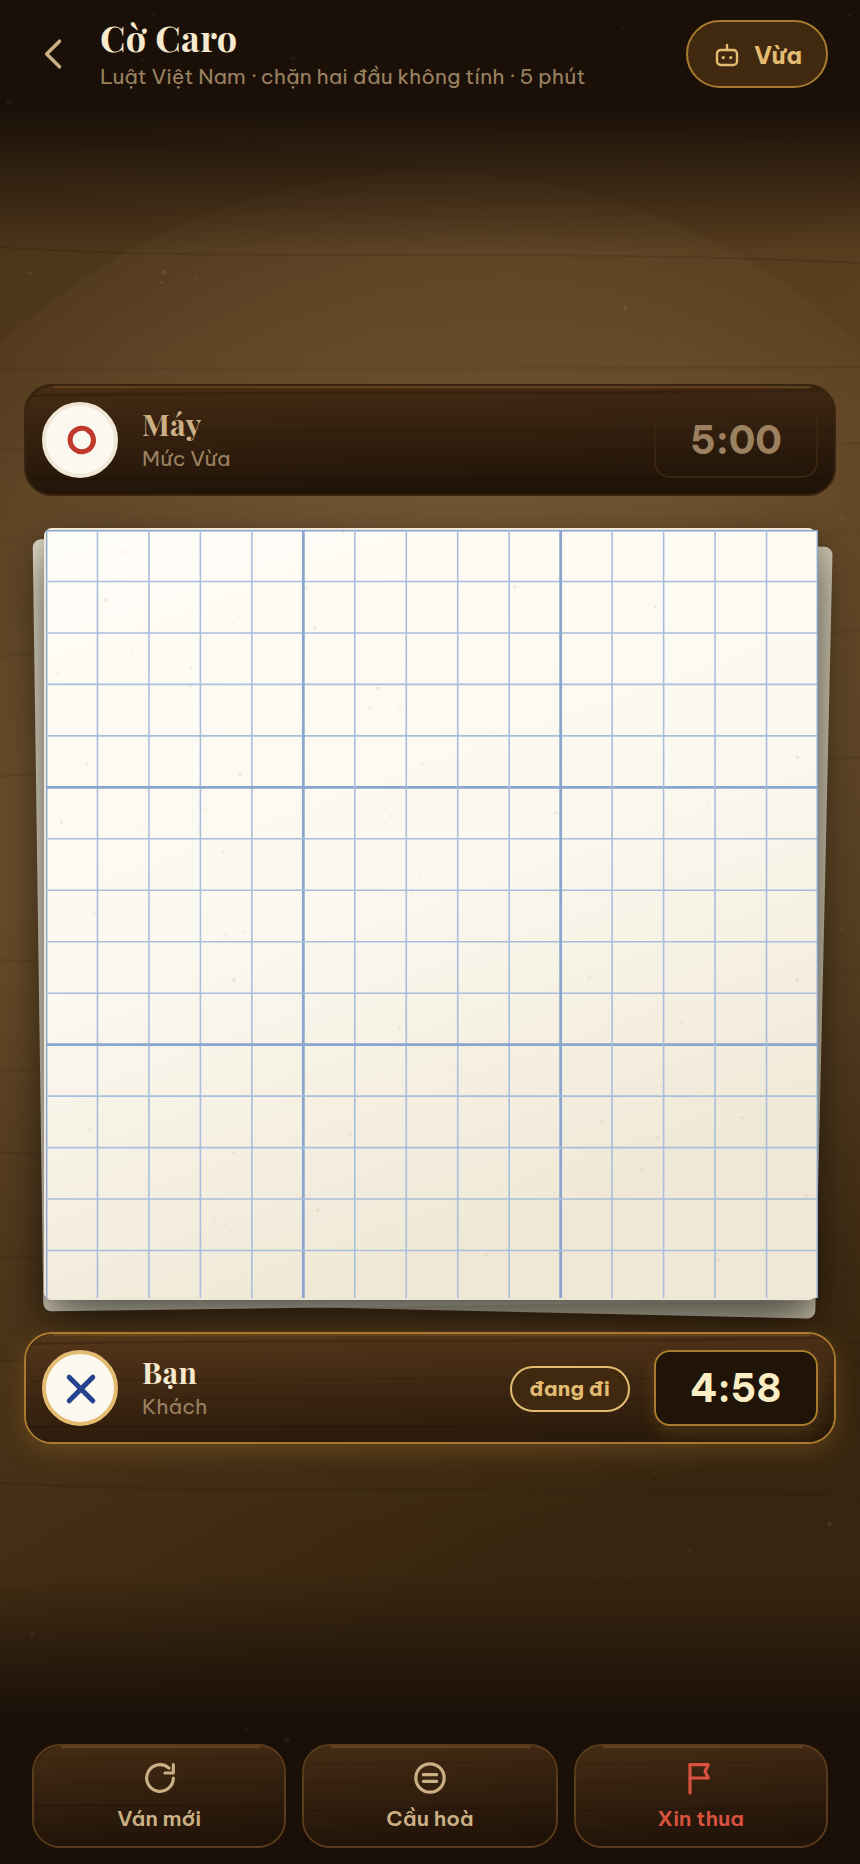
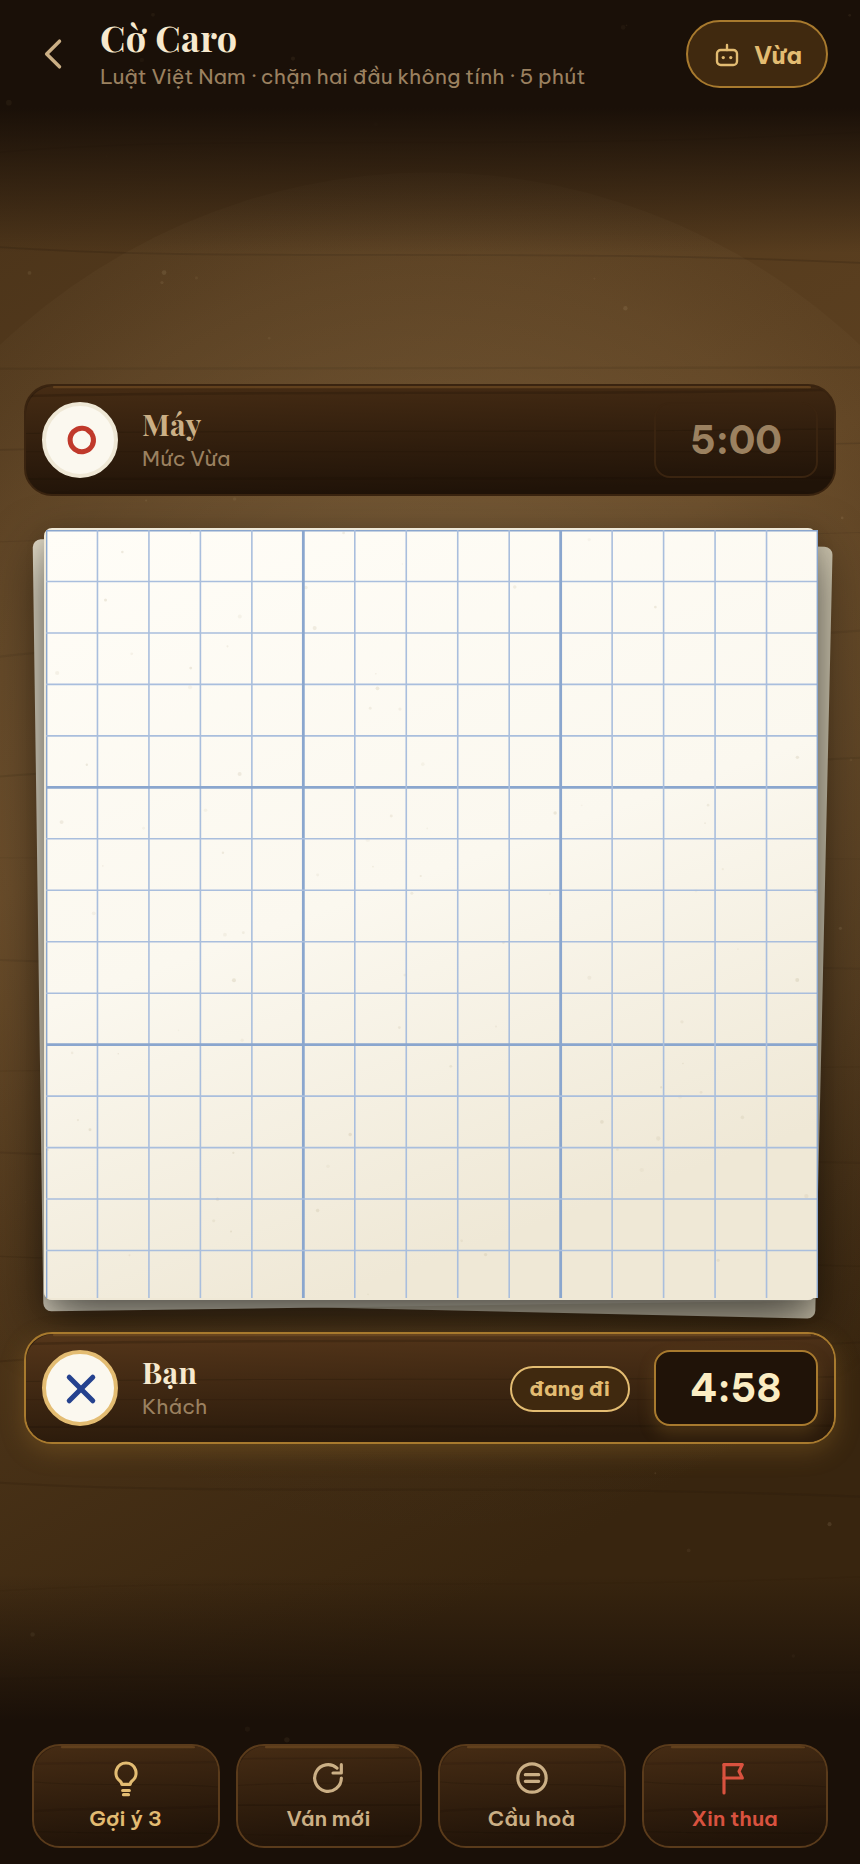
Gợi ý ba lần mỗi ván, dùng chung cho mọi bộ môn
Nút gợi ý hỏi chính con bot mức Khó xem nó sẽ đi nước nào ở chỗ người
chơi, rồi vẽ nước đó lên bàn: caro là ô tô dạ quang viền nét chì đứt, cờ
gánh là vòng nét đứt quanh quân cần nhấc cộng mũi tên tới chỗ cần đến —
chỉ tô ô đích thôi thì người chơi không biết nhấc quân nào.

Gọi đúng tên là 'nước mà máy mức Khó sẽ chọn', không gọi là 'nước tốt
nhất'. Bot không chứng minh được nước nào tốt nhất, nó chỉ tìm sâu vài
tầng; hứa quá lời rồi người chơi thua theo gợi ý thì lần sau họ không tin
cái nút nào nữa.

Ba lần là con số cố tình: đủ gỡ ba chỗ bí, không đủ chơi hộ cả ván. Gợi ý
vô hạn thì người ta bấm cho xong, mà đấu với máy vốn là để học.

Cơ chế nằm trong useVsBot nên game thứ ba trở đi có sẵn, không phải cài
lại. Gợi ý tự tắt ngay khi bàn cờ đổi — mũi tên chỉ vào thế cờ đã qua còn
tệ hơn không có gợi ý.

Thêm test cho cả hai engine: bot phải trả nước hợp lệ khi bị hỏi hộ ghế
người chơi, vì đó chính là đường mà nút gợi ý đi.

Và sửa một lỗi im lặng vừa lộ ra: npm test dùng bản dựng tăng dần nên có
lần bỏ sót file test vừa sửa, chạy bản cũ rồi báo xanh. Giờ biên dịch lại
toàn bộ trước khi chạy.

diff --git a/apps/mobile/src/games/useVsBot.ts b/apps/mobile/src/games/useVsBot.ts
@@ -25,7 +25,22 @@ export interface VsBot<S, A> {
   /** Gửi một hành động của người chơi. */
   send: (seat: Seat, a: A) => void;
   reset: () => void;
+  /** Số gợi ý còn lại trong ván này. */
+  hintsLeft: number;
+  /** Nước đang được gợi ý, hoặc null. Bàn cờ tự vẽ theo cách của nó. */
+  hint: A | null;
+  askHint: () => void;
+  canHint: boolean;
 }
+
+/**
+ * Mỗi ván được ba gợi ý.
+ *
+ * Ba là con số cố tình: đủ để gỡ ba chỗ bí trong một ván, không đủ để chơi
+ * hộ cả ván. Gợi ý nhiều vô hạn thì người chơi bấm cho xong, không học được
+ * gì, mà đánh với máy vốn là để học.
+ */
+export const HINTS_PER_MATCH = 3;
 
 export function useVsBot<S extends BaseState, A>(
   engine: Engine<S, A, unknown, unknown>,
@@ -46,6 +61,8 @@ export function useVsBot<S extends BaseState, A>(
   const [state, setState] = useState<S>(() => fresh('van-1'));
   const [thinking, setThinking] = useState(false);
   const [clock, setClock] = useState<[number, number]>([startMs, startMs]);
+  const [hintsLeft, setHintsLeft] = useState(HINTS_PER_MATCH);
+  const [hint, setHint] = useState<A | null>(null);
   const timer = useRef<ReturnType<typeof setTimeout> | null>(null);
 
   const outcome = engine.outcome(state);
@@ -65,8 +82,29 @@ export function useVsBot<S extends BaseState, A>(
     setSeed(next);
     setThinking(false);
     setClock([startMs, startMs]);
+    setHintsLeft(HINTS_PER_MATCH);
+    setHint(null);
     setState(fresh(next));
   }, [fresh, startMs]);
+
+  /**
+   * Gợi ý = hỏi chính con bot mức Khó xem nó sẽ đi nước nào ở chỗ của bạn.
+   *
+   * Nói đúng như vậy chứ không gọi là "nước tốt nhất": bot không chứng minh
+   * được nước nào tốt nhất, nó chỉ tìm sâu vài tầng. Hứa "tốt nhất" rồi
+   * người chơi thua theo gợi ý thì lần sau họ không tin cái nút nào nữa.
+   */
+  const askHint = useCallback(() => {
+    if (hintsLeft <= 0 || outcome || toMove !== ME) return;
+    setHint(pickBotMove(state, ME, 3, makeRng(`${seed}|hint|${state.ply}`, 0), (o.budgetMs ?? 60) * 4));
+    setHintsLeft((n) => n - 1);
+  }, [hintsLeft, outcome, toMove, state, seed, pickBotMove, o.budgetMs]);
+
+  // Gợi ý biến mất ngay khi bàn cờ đổi: một mũi tên chỉ vào thế cờ đã qua
+  // còn tệ hơn là không có gợi ý nào.
+  useEffect(() => {
+    setHint(null);
+  }, [state.ply]);
 
   // Đồng hồ chạy 100ms một nhịp thay vì 1s: nhịp 1s thì giây cuối cùng có
   // thể trôi qua gần một giây mới hiện, đúng lúc người chơi nhìn chằm chằm.
@@ -101,7 +139,19 @@ export function useVsBot<S extends BaseState, A>(
     };
   }, [state, seed, o.level, o.thinkMs, o.budgetMs, outcome, toMove, engine, pickBotMove]);
 
-  return { state, outcome, toMove, thinking, clock, send, reset };
+  return {
+    state,
+    outcome,
+    toMove,
+    thinking,
+    clock,
+    send,
+    reset,
+    hintsLeft,
+    hint,
+    askHint,
+    canHint: hintsLeft > 0 && !outcome && toMove === ME,
+  };
 }
 
 /** Hết giờ là một action thật gửi vào engine, không phải một dòng chữ vẽ đè. */

diff --git a/apps/mobile/src/games/co-caro/Board.tsx b/apps/mobile/src/games/co-caro/Board.tsx
@@ -35,9 +35,11 @@ export interface CaroBoardProps {
   mySeat: number | null;
   onPlay: (r: number, c: number) => void;
   disabled?: boolean;
+  /** Ô đang được gợi ý, vẽ bằng nét chì mờ như người ta ướm thử. */
+  hint?: { r: number; c: number } | null;
 }
 
-export function CaroBoard({ view, size, mySeat, onPlay, disabled }: CaroBoardProps) {
+export function CaroBoard({ view, size, mySeat, onPlay, disabled, hint }: CaroBoardProps) {
   const n = view.size;
   const cell = size / n;
 
@@ -161,6 +163,34 @@ export function CaroBoard({ view, size, mySeat, onPlay, disabled }: CaroBoardPro
               );
             })()
           : null}
+
+        {/* Gợi ý vẽ bằng nét chì mờ, không phải mực: nó là nước *ướm thử*,
+            chưa phải nước đã đi. Vẽ đậm bằng mực thì nhìn thoáng qua tưởng
+            mình đã đánh rồi. */}
+        {hint ? (
+          <G>
+            <Rect
+              x={hint.c * cell + cell * 0.08}
+              y={hint.r * cell + cell * 0.08}
+              width={cell * 0.84}
+              height={cell * 0.84}
+              rx={cell * 0.16}
+              fill={T.highlight}
+              opacity={0.45}
+            />
+            <Rect
+              x={hint.c * cell + cell * 0.08}
+              y={hint.r * cell + cell * 0.08}
+              width={cell * 0.84}
+              height={cell * 0.84}
+              rx={cell * 0.16}
+              stroke={T.pencil}
+              strokeWidth={1.6}
+              strokeDasharray={`${cell * 0.16} ${cell * 0.1}`}
+              fill="none"
+            />
+          </G>
+        ) : null}
 
         {view.cells.map((seat, i) => {
           if (seat < 0) return null;

diff --git a/apps/mobile/src/games/co-ganh/Board.tsx b/apps/mobile/src/games/co-ganh/Board.tsx
@@ -29,9 +29,11 @@ export interface GanhBoardProps {
   onMove: (f: number, t: number) => void;
   legalTargets: number[];
   disabled?: boolean;
+  /** Nước đang được gợi ý: quân nào đi đâu. */
+  hint?: { f: number; t: number } | null;
 }
 
-export function GanhBoard({ view, size, mySeat, picked, onPick, onMove, legalTargets, disabled }: GanhBoardProps) {
+export function GanhBoard({ view, size, mySeat, picked, onPick, onMove, legalTargets, disabled, hint }: GanhBoardProps) {
   /**
    * Xoay bàn 180° khi người cầm máy ngồi bên trên.
    *
@@ -150,6 +152,25 @@ export function GanhBoard({ view, size, mySeat, picked, onPick, onMove, legalTar
             <Circle key={`t${i}`} cx={cx(i)} cy={cy(i)} r={R * 0.34} fill={T.hint} opacity={0.85} />
           ),
         )}
+
+        {/* Gợi ý: một mũi tên nét đứt từ quân nên đi tới chỗ nên đến. Chỉ
+            tô sáng ô đích thôi thì người chơi không biết nên nhấc quân nào. */}
+        {hint ? (
+          <G opacity={0.9}>
+            <Circle cx={cx(hint.f)} cy={cy(hint.f)} r={R * 1.3} stroke={T.pick} strokeWidth={2.4} strokeDasharray="5 4" fill="none" />
+            <Line
+              x1={cx(hint.f)}
+              y1={cy(hint.f)}
+              x2={cx(hint.t)}
+              y2={cy(hint.t)}
+              stroke={T.pick}
+              strokeWidth={3}
+              strokeDasharray="6 5"
+              strokeLinecap="round"
+            />
+            <Circle cx={cx(hint.t)} cy={cy(hint.t)} r={R * 0.5} fill={T.pick} opacity={0.85} />
+          </G>
+        ) : null}
 
         {view.board.map((seat, i) => {
           if (seat < 0) return null;

diff --git a/apps/mobile/src/games/co-ganh/Table.tsx b/apps/mobile/src/games/co-ganh/Table.tsx
@@ -75,13 +75,23 @@ export function GanhTable({ level, onLevel, onHome }: { level: BotLevel; onLevel
         setTimeout(() => m.send(BOT, { t: 'decline-draw' }), 500);
       }}
       onResign={() => m.send(ME, { t: 'resign' })}
+      hintsLeft={m.hintsLeft}
+      canHint={m.canHint}
+      onHint={m.askHint}
       ended={m.outcome}
       youWon={m.outcome?.winner === ME}
       surface={(w, h) => <CourtBackdrop width={w} height={h} />}
       // Luật mở ràng buộc đối thủ chỉ được đi vào mấy ô nhất định. Không nói
       // ra thì người chơi bấm mãi vào chỗ khác mà không hiểu vì sao bàn cờ
       // không nghe lời.
-      note={myTurn && view.forcedTo ? 'Đối thủ vừa mở — bạn buộc phải đi vào ô đánh dấu đỏ' : null}
+      noteTone={m.hint ? 'gold' : 'seal'}
+      note={
+        m.hint
+          ? 'Gợi ý: nước mà máy mức Khó sẽ chọn ở chỗ bạn'
+          : myTurn && view.forcedTo
+            ? 'Đối thủ vừa mở — bạn buộc phải đi vào ô đánh dấu đỏ'
+            : null
+      }
       top={{
         name: 'Máy',
         sub: `Mức ${LEVEL_NAME[level]} · ${theirs} quân`,
@@ -110,6 +120,7 @@ export function GanhTable({ level, onLevel, onHome }: { level: BotLevel; onLevel
             m.send(ME, { t: 'game', a: { f, t } });
           }}
           legalTargets={targets}
+          hint={m.hint?.t === 'game' ? m.hint.a : null}
           disabled={!myTurn}
         />
       </View>

diff --git a/packages/game-co-ganh/src/engine.test.ts b/packages/game-co-ganh/src/engine.test.ts
@@ -180,6 +180,28 @@ test('bot: mức Khó ăn được quân khi có nước gánh rõ ràng', () =>
   assert.equal(mv.t, idx(2, 2), 'bot phải đi vào giữa để gánh hai quân');
 });
 
+/**
+ * Nút gợi ý hỏi chính con bot xem nó sẽ đi nước nào **ở chỗ người chơi**.
+ * Nghĩa là bot bị gọi với ghế mà nó không thường cầm, và nó vẫn phải trả về
+ * nước hợp lệ — nếu không thì bấm gợi ý xong người chơi đi theo và bị engine
+ * từ chối.
+ */
+test('bot trả nước hợp lệ cho cả hai ghế, ở mọi mức', () => {
+  const rng = makeRng('both', 0);
+  let s = fresh('both');
+  for (let k = 0; k < 40; k++) {
+    if (ganhEngine.outcome(s)) s = fresh(`both-${k}`);
+    const legal = new Set(ganhEngine.legal(s, s.toMove).map((m) => `${m.f}>${m.t}`));
+    for (const lv of [1, 2, 3] as const) {
+      const mv = ganhBot.pick(s, s.toMove, lv, makeRng(`p${k}${lv}`, 0), 60);
+      assert.ok(legal.has(`${mv.f}>${mv.t}`), `mức ${lv} trả nước ngoài luật`);
+    }
+    const ms = [...legal].map((x) => x.split('>').map(Number));
+    const [f, t] = ms[rng.int(ms.length)]!;
+    s = ganhEngine.reduce(s, s.toMove, { f: f!, t: t! }, makeRng('z', s.rngCursor));
+  }
+});
+
 test('hợp đồng engine', () => {
   runEngineConformance(ganhEngine, { seats: SEATS });
   runEngineConformance(withStandardMeta(ganhEngine), { seats: SEATS });

diff --git a/apps/mobile/src/ui/MatchShell.tsx b/apps/mobile/src/ui/MatchShell.tsx
@@ -50,6 +50,11 @@ export interface MatchShellProps {
   surface?: (w: number, h: number) => React.ReactNode;
   /** Một dòng nhắc trạng thái, ví dụ "bạn đang bị ép đi vào ô đỏ". */
   note?: string | null;
+  /** Nhắc bình thường thì vàng, nhắc ràng buộc luật thì đỏ son. */
+  noteTone?: 'gold' | 'seal';
+  hintsLeft: number;
+  canHint: boolean;
+  onHint: () => void;
   children: React.ReactNode;
 }
 
@@ -110,13 +115,20 @@ export function MatchShell(p: MatchShellProps) {
 
       {p.note ? (
         <View style={{ paddingHorizontal: S.lg, paddingTop: S.xs }}>
-          <Txt size={12} color={A.sealLit} center>
+          <Txt size={12} color={p.noteTone === 'seal' ? A.sealLit : A.gold} center>
             {p.note}
           </Txt>
         </View>
       ) : null}
 
       <View style={{ flexDirection: 'row', gap: S.sm, paddingHorizontal: S.lg, paddingTop: S.md }}>
+        <IconBtn
+          name="bulb"
+          label={`Gợi ý ${p.hintsLeft}`}
+          tone="gold"
+          disabled={!p.canHint}
+          onPress={p.onHint}
+        />
         <IconBtn name="refresh" label="Ván mới" onPress={p.onReset} />
         <IconBtn name="draw" label="Cầu hoà" disabled={!!p.ended} onPress={p.onDraw} />
         <IconBtn name="flag" label="Xin thua" tone="seal" disabled={!!p.ended} onPress={p.onResign} />

diff --git a/packages/game-co-caro/src/engine.test.ts b/packages/game-co-caro/src/engine.test.ts
@@ -170,6 +170,24 @@ test('engine không hề nhìn thấy meta-action', () => {
   );
 });
 
+/**
+ * Nút gợi ý hỏi chính con bot xem nó sẽ đi nước nào **ở chỗ người chơi**,
+ * nên bot bị gọi với ghế nó không thường cầm và vẫn phải trả nước hợp lệ.
+ * Sai chỗ này thì người chơi bấm gợi ý, đi theo, rồi bị engine từ chối.
+ */
+test('bot trả nước hợp lệ cho cả hai ghế, ở mọi mức', () => {
+  const rng = makeRng('hint', 0);
+  let s = caroEngine.init(SEATS, { size: 15 }, makeRng('hint', 0));
+  for (let k = 0; k < 20 && !caroEngine.outcome(s); k++) {
+    for (const lv of [1, 2, 3] as const) {
+      const mv = caroBot.pick(s, s.toMove, lv, makeRng(`c${k}${lv}`, 0), 50);
+      assert.ok(caroEngine.isLegalFast!(s, s.toMove, mv), `mức ${lv} trả nước ngoài luật`);
+    }
+    const ms = caroEngine.legal(s, s.toMove);
+    s = caroEngine.reduce(s, s.toMove, ms[rng.int(ms.length)]!, makeRng('z', s.rngCursor));
+  }
+});
+
 test('bot chỉ trả nước hợp lệ, và biết chặn thế thắng của đối thủ', () => {
   for (const level of [1, 2, 3] as const) {
     let s = caroEngine.init(SEATS, { size: 11 }, makeRng('t', 0));

diff --git a/apps/mobile/src/games/co-caro/Table.tsx b/apps/mobile/src/games/co-caro/Table.tsx
@@ -57,6 +57,10 @@ export function CaroTable({ level, onLevel, onHome }: { level: BotLevel; onLevel
         setTimeout(() => m.send(BOT, { t: 'decline-draw' }), 500);
       }}
       onResign={() => m.send(ME, { t: 'resign' })}
+      hintsLeft={m.hintsLeft}
+      canHint={m.canHint}
+      onHint={m.askHint}
+      note={m.hint ? 'Gợi ý: nước mà máy mức Khó sẽ chọn ở chỗ bạn' : null}
       ended={m.outcome}
       youWon={m.outcome?.winner === ME}
       surface={(w, h) => <DeskBackdrop width={w} height={h} />}
@@ -72,6 +76,7 @@ export function CaroTable({ level, onLevel, onHome }: { level: BotLevel; onLevel
             mySeat={ME}
             onPlay={(r, c) => m.send(ME, { t: 'game', a: { r, c } })}
             disabled={m.toMove !== ME || !!m.outcome}
+            hint={m.hint?.t === 'game' ? m.hint.a : null}
           />
         </View>
       </View>

diff --git a/apps/mobile/src/ui/Icon.tsx b/apps/mobile/src/ui/Icon.tsx
@@ -27,7 +27,8 @@ export type IconName =
   | 'settings'
   | 'lock'
   | 'chevron'
-  | 'check';
+  | 'check'
+  | 'bulb';
 
 export function Icon({
   name,
@@ -58,6 +59,13 @@ function render(name: IconName, p: Record<string, unknown>, color: string) {
   switch (name) {
     case 'back':
       return <Path d="M15 5 L8 12 L15 19" {...p} />;
+    case 'bulb':
+      return (
+        <>
+          <Path d="M12 3a6 6 0 0 0-3.6 10.8c.6.5 1 1.2 1.1 2h5c.1-.8.5-1.5 1.1-2A6 6 0 0 0 12 3z" {...p} />
+          <Path d="M10 19.5h4M10.5 22h3" {...p} />
+        </>
+      );
     case 'check':
       return <Path d="M5 12.5 L10 17.5 L19 7" {...p} />;
     case 'chevron':

diff --git a/README.md b/README.md
@@ -41,7 +41,7 @@ docs/
 ```bash
 npm install
 npm run build      # biên dịch packages/
-npm test           # 29 test: hợp đồng engine + luật caro + luật gánh + bot
+npm test           # 31 test: hợp đồng engine + luật caro + luật gánh + bot
 
 npm run web        # đóng gói app cho web để xem thử
 npm run serve      # mở ở http://localhost:8080
@@ -72,6 +72,11 @@ Vài cái đắt nhất:
 - **`GameId` là `string`.** Union đóng trong package lõi biến game thứ mười
   thành một lần sửa file lõi rồi chạy theo mọi `switch` exhaustive trong
   matchmaker, enum DB và bot dispatcher.
+
+`npm test` biên dịch lại **toàn bộ** (`tsc --build --force`) chứ không dựa
+vào bản dựng tăng dần. Đã có lần bản dựng tăng dần bỏ sót một file test vừa
+sửa, và bộ test chạy bản cũ rồi báo xanh — một bộ test âm thầm không chạy
+bài mới thì còn tệ hơn không có bộ test.
 
 Tài liệu không chặn được lỗi im lặng; chỉ test mới chặn được. Nên mỗi engine
 phải gọi `runEngineConformance()`, và bản thân bộ kiểm cũng có test chứng minh
